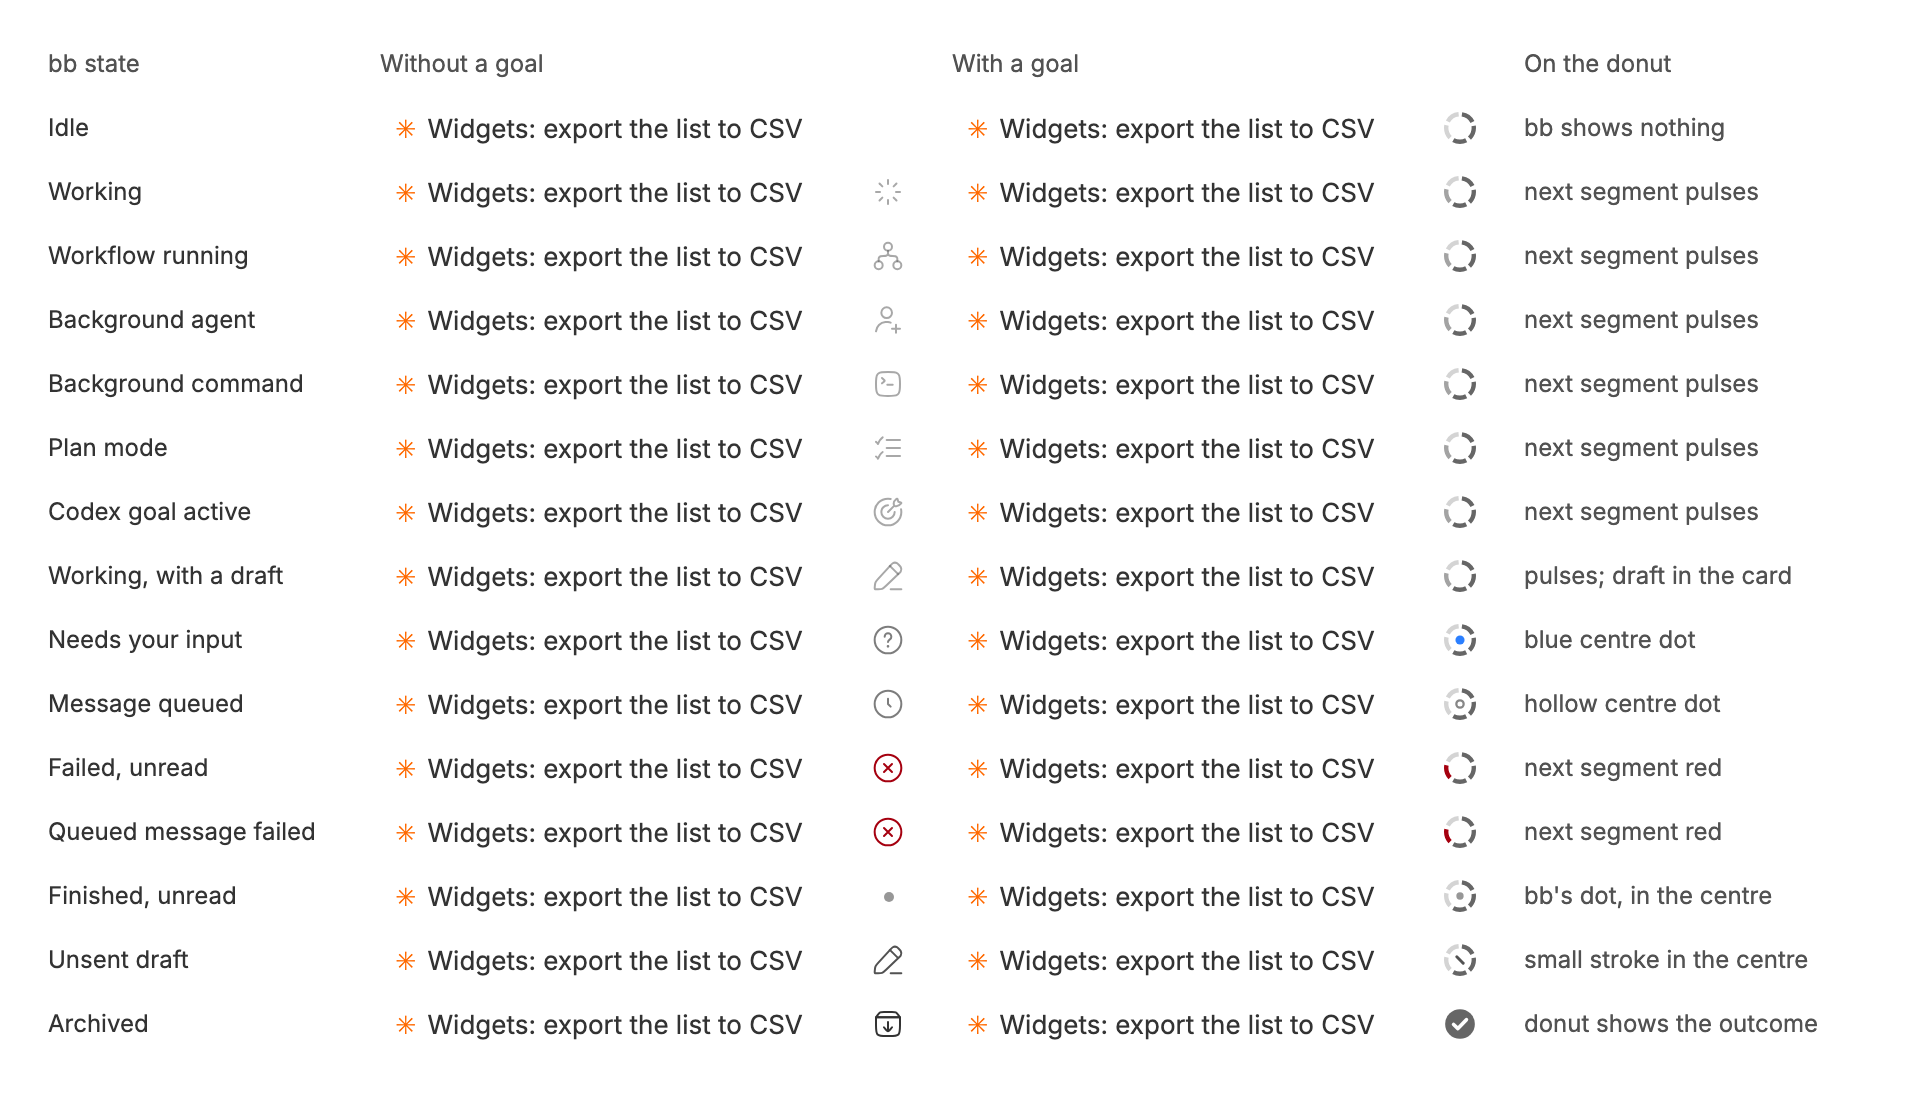
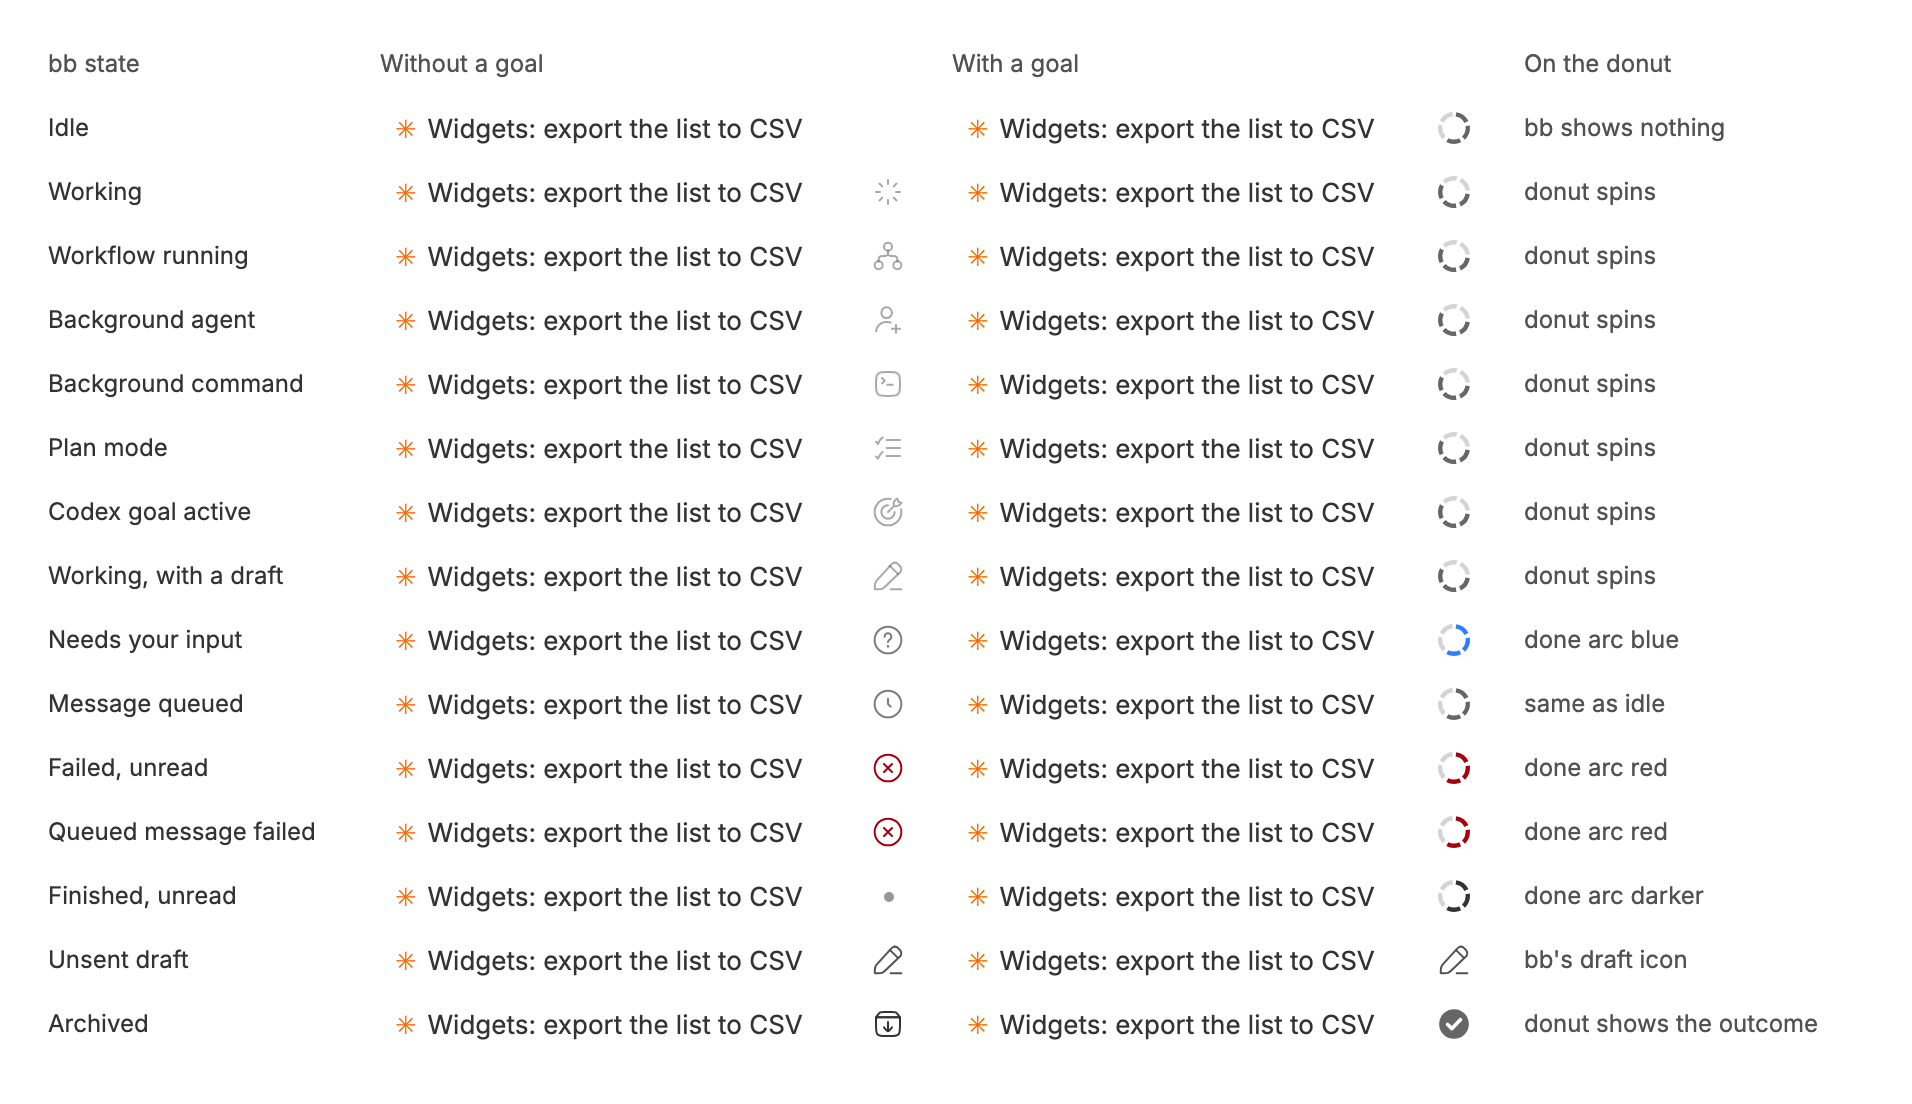
3ac9c73 Tokenomics: bb's state colours the donut's done arc, and it spins while working
danielbachhuber/bb-plugins@3ac9c734dc90af7041d7776ebd03dfea1b75d2ec

Captured with uncommitted changes in the bb-plugins checkout.

diff --git a/tokenomics/README.md b/tokenomics/README.md
@@ -52,7 +52,7 @@ The Goals section before any thread has recorded a goal.
 
 ### Every bb row state
 
-Every bb sidebar row state: bb's icon today, and the goal donut that takes its place on a thread with a goal (3 of 5 stages done). The pulse is animated, so a still shows working close to idle.
+Every bb sidebar row state: bb's icon, and the goal donut that takes its place on a thread with a goal (3 of 5 stages done). The done arc takes bb's colour, the donut spins while working (a still shows it mid-turn), queued looks like idle, and a draft keeps bb's own icon.
 
 ![Every bb row state](goals--every-bb-row-state.png)
 
